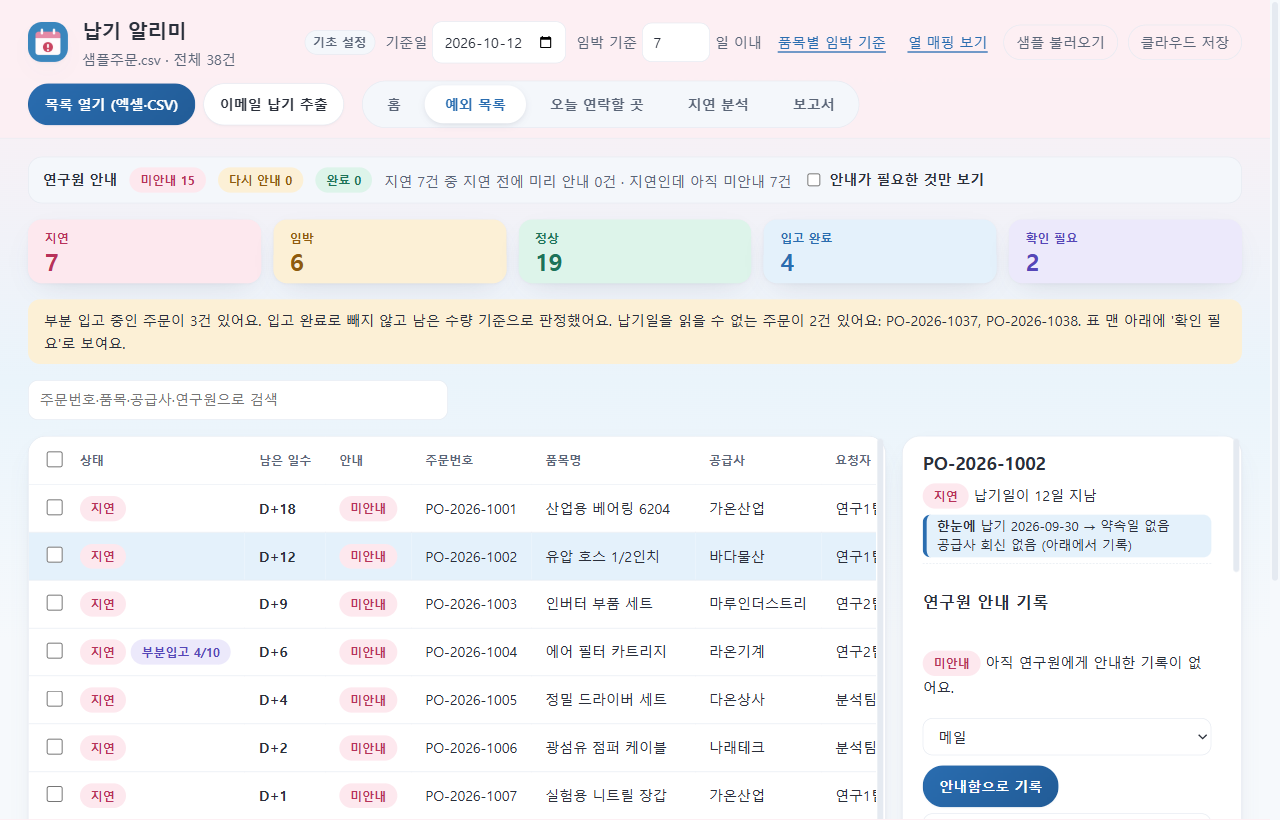
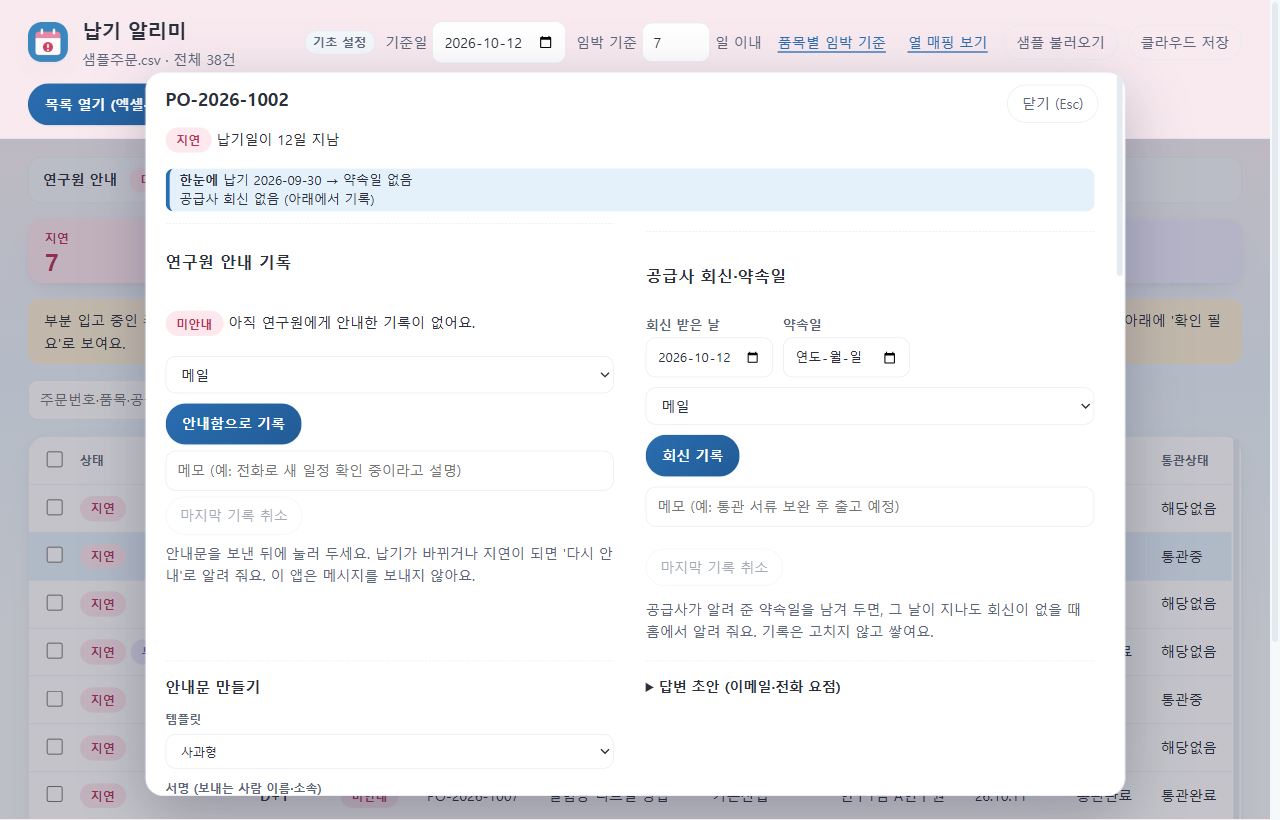
docs: 소개 페이지에 바뀐 점과 개발 방식을 보강
상세 넓은 창 캡처로 교체, 연구원 요약·메일 회신 제안 캡처 추가, 버전별 변경점 표,
하네스(AI와 일하는 방식) 섹션 추가, 시험 수치를 최신(381/19/66)으로 고친다.

diff --git a/site/index.html b/site/index.html
@@ -108,11 +108,29 @@ code { background: var(--accent-soft); padding: 1px 6px; border-radius: 6px; fon
     <p class="sub">모두 가상 샘플 데이터입니다.</p>
     <figure><img src="img/00-home.png" alt="홈 화면: 안내할 것, 회신 늦음, 오늘 연락할 곳 세 묶음" loading="lazy"><figcaption><b>홈</b> — 파일을 열면 가장 먼저 보이는 "오늘 할 일"입니다. 항목을 누르면 그 주문으로 갑니다.</figcaption></figure>
     <figure><img src="img/01-list.png" alt="예외 목록 화면: 위쪽에 목록 열기와 탭, 요약 카드와 주문 표" loading="lazy"><figcaption><b>예외 목록</b> — 지연 7 · 임박 6 · 확인 필요 2처럼 상태별로 요약하고, 안내 현황 막대로 아직 안내하지 않은 주문을 보여 줍니다.</figcaption></figure>
-    <figure><img src="img/02-detail.png" alt="주문 상세: 연구원 안내 기록과 안내함으로 기록 단추" loading="lazy"><figcaption><b>주문 상세</b> — 가장 자주 누르는 "안내함으로 기록" 단추가 스크롤 없이 보이도록 영역 순서를 바꿨습니다.</figcaption></figure>
-    <figure><img src="img/06-reply.png" alt="주문 상세 위쪽 한눈에: 납기에서 약속일로, 회신 늦음 3일째" loading="lazy"><figcaption><b>공급사 회신·약속일</b> — 약속일이 지난 주문에 "회신 늦음 3일째"가 붙습니다. 그날 공급사에 연락했으면 조용히 둡니다.</figcaption></figure>
+    <figure><img src="img/02-detail.png" alt="주문 상세 창: 연구원 안내 기록과 공급사 회신·약속일이 나란히 있는 넓은 창" loading="lazy"><figcaption><b>주문 상세</b> — 주문을 누르면 가운데 넓은 창이 열립니다. 예전에는 오른쪽 340px 좁은 칸에 세로로 길게 들어 있어 입력이 불편했습니다. 지금은 안내 기록과 공급사 회신이 나란히 놓이고, 닫기 단추나 Esc로 닫으면 보던 줄로 돌아옵니다. 좁은 창(900x600)에서도 스크롤 없이 "안내함으로 기록"이 보입니다.</figcaption></figure>
+    <figure><img src="img/06-reply.png" alt="주문 상세 위쪽 한눈에: 납기에서 약속일로, 회신 늦음 3일째" loading="lazy"><figcaption><b>공급사 회신·약속일</b> — 약속일이 지난 주문에 "회신 늦음 3일째"가 붙습니다. 그날 공급사에 연락했으면 조용히 둡니다. 회신은 지우지 않고 쌓으며, 잘못 넣으면 마지막 기록만 취소합니다.</figcaption></figure>
+    <figure><img src="img/07-ask.png" alt="연구원으로 거르면 위에 열린 주문 3건(지연 2, 임박 0, 확인 필요 1), 안내할 것 3건 요약이 보이는 화면" loading="lazy"><figcaption><b>연구원 문의 요약</b> — 연구원이 "내 주문 어떻게 됐어요?"라고 물으면, 그 연구원으로 거르는 즉시 열린 주문과 안내할 것을 한 줄로 답할 수 있습니다.</figcaption></figure>
+    <figure><img src="img/08-mail-suggest.png" alt="이메일 납기 추출 패널의 공급사 회신으로 기록 단추" loading="lazy"><figcaption><b>메일에서 회신 기록 제안</b> — 메일에서 근거 문장이 확인된 주문에만 "공급사 회신으로 기록"을 제안합니다. 날짜가 애매하면 약속일을 비워 두고, 사람이 누를 때만 기록합니다(자동 기록 없음).</figcaption></figure>
     <figure><img src="img/03-contact.png" alt="오늘 연락할 곳 화면" loading="lazy"><figcaption><b>오늘 연락할 곳</b> — 공급사별 연락 이력과 다음 행동을 정리합니다.</figcaption></figure>
     <figure><img src="img/04-analysis.png" alt="지연 분석 화면" loading="lazy"><figcaption><b>지연 분석</b> — 지연 원인(통관·서류, 생산 지연 등)의 비중을 봅니다.</figcaption></figure>
     <figure><img src="img/05-cloud.png" alt="클라우드 저장 패널: 상단에 모두 올렸어요 상태, 단계별 접이식" loading="lazy"><figcaption><b>클라우드 저장</b> — 기본은 이 컴퓨터에만 저장하고, 켜면 기록을 Supabase에 사본으로 올립니다. 현재 상태와 지금 할 일을 맨 위에 보여 주고 끝낸 단계는 접습니다.</figcaption></figure>
+  </div>
+</section>
+
+<section>
+  <div class="wrap">
+    <h2>버전별 변경점</h2>
+    <p class="sub">전체 이력은 <a href="https://github.com/2rodmlquf-bit/nabgi-alimi/blob/main/CHANGELOG.md">CHANGELOG</a>에 있습니다.</p>
+    <table>
+      <thead><tr><th>버전</th><th>바뀐 것</th></tr></thead>
+      <tbody>
+        <tr><td>v0.7.1</td><td><b>주문 상세를 가운데 넓은 창으로.</b> 오른쪽 좁은 칸의 입력 불편을 없앴고, 닫기·Esc, 좁은 창 대응을 넣었습니다.</td></tr>
+        <tr><td>v0.7.0</td><td><b>공급사 회신 추적.</b> 회신·약속일 기록, "회신 늦음" 계산, 답변 초안, 홈 탭, 연구원 문의 요약, 메일에서 회신 기록 제안, 저장 형식 v3(회신 목록 추가, 이전 파일은 자동 변환·백업).</td></tr>
+        <tr><td>v0.6.0</td><td><b>클라우드 저장(선택).</b> 올리기·복원·로그인, 메뉴를 업무 순서로 재배치, JSON 내보내기, 같은 주문번호 경고.</td></tr>
+        <tr><td>v0.5.0</td><td>안내 추적 보완, 오류 경로·규모 점검, 조건부 출시.</td></tr>
+      </tbody>
+    </table>
   </div>
 </section>
 
@@ -137,6 +155,21 @@ code { background: var(--accent-soft); padding: 1px 6px; border-radius: 6px; fon
 
 <section>
   <div class="wrap">
+    <h2>AI와 일하는 방식 (하네스)</h2>
+    <p class="sub">코딩 AI에게 "알아서 해 줘"라고 하지 않고, 일하는 순서와 규칙을 파일로 정해 두고 시켰습니다. 문서가 먼저, 코드는 그다음입니다.</p>
+    <div class="grid">
+      <div class="card"><h3>문서 먼저</h3><p>문제 정의 → 화면 구조(IA) → 사용자 여정 → PRD → ERD → spec·plan → Intent 순서로 한 문서씩 승인한 뒤 개발합니다. 끝나면 문서를 갱신합니다.</p></div>
+      <div class="card"><h3>인터뷰로 결정</h3><p>애매한 것은 AI가 추측하지 않고 한 번에 하나씩 물어서 정합니다. 용어는 용어집에, 되돌리기 어려운 결정은 ADR(결정 기록) 8건에 남겼습니다.</p></div>
+      <div class="card"><h3>코드 규칙</h3><p>파일 500줄·함수 40줄 상한, 안쪽 업무 규칙이 바깥 화면·DB를 가져다 쓰지 않는 방향 규칙, 판정·계산은 단위 시험 필수.</p></div>
+      <div class="card"><h3>자율성의 선</h3><p>파일 수정·시험·로컬 커밋은 알아서, push·배포·삭제·서비스 쓰기·결제는 반드시 멈추고 묻게 했습니다. 무료 플랜만, 가상 데이터만 씁니다.</p></div>
+      <div class="card"><h3>QA는 둘로 나눔</h3><p>AI가 직접 실행한 QA(Pass/Fail/No Run과 증거)와, 사람이 눈으로 봐야 하는 QA(글이 읽기 편한지, 실제 설치 등)를 시트에 따로 등록합니다. 증거 없는 Pass는 쓰지 않습니다.</p></div>
+      <div class="card"><h3>찾은 문제도 기록</h3><p>시험이 통과해도 화면을 열어 확인했고, 그렇게 찾은 문제(예: 2열 배치가 안내 문구를 쪼개던 것)는 고친 뒤 시험에 반영했습니다.</p></div>
+    </div>
+  </div>
+</section>
+
+<section>
+  <div class="wrap">
     <h2>클라우드 저장은 이렇게 설계했습니다</h2>
     <div class="grid">
       <div class="card"><h3>이 컴퓨터가 기준</h3><p>기록은 항상 로컬에 먼저 저장합니다. 인터넷이 끊겨도 기록이 막히지 않고, 돌아오면 이어서 올립니다.</p></div>
@@ -151,9 +184,9 @@ code { background: var(--accent-soft); padding: 1px 6px; border-radius: 6px; fon
   <div class="wrap">
     <h2>얼마나 확인했나요</h2>
     <div class="kpi">
-      <div><b>346</b><span>단위 시험</span></div>
-      <div><b>16</b><span>화면 시나리오(E2E)</span></div>
-      <div><b>47</b><span>DB 규칙 시험</span></div>
+      <div><b>381</b><span>단위 시험</span></div>
+      <div><b>19</b><span>화면 시나리오(E2E)</span></div>
+      <div><b>66</b><span>DB 규칙 시험</span></div>
       <div><b>0</b><span>보안 점검 문제 (Supabase)</span></div>
     </div>
     <p class="sub" style="margin-top:12px">시험이 통과해도 믿지 않고 실제 화면을 열어 확인했고, 그렇게 찾은 문제들은 <a href="https://github.com/2rodmlquf-bit/nabgi-alimi/blob/main/docs/BACKLOG.md">BACKLOG</a>에 기록했습니다.</p>

diff --git a/tools/site-shots.js b/tools/site-shots.js
@@ -28,6 +28,17 @@ const OUT = path.join(ROOT, "site", "img");
     await app.screenshot(OUT + "/06-reply.png");
     await app.click("#tabContact"); await app.sleep(500); await app.screenshot(OUT + "/03-contact.png");
     await app.click("#tabAna"); await app.sleep(500); await app.screenshot(OUT + "/04-analysis.png");
+    await app.press("Escape"); await app.click("#tabList"); await app.sleep(300);
+    await app.eval("document.querySelector('#tbody tr').children[7].click()"); await app.sleep(400);
+    await app.screenshot(OUT + "/07-ask.png");
+    await app.clickText("#filterChip button", "필터 해제"); await app.sleep(250);
+    await app.click("#emailBtn"); await app.sleep(300);
+    await app.click("#srcFolder"); await app.click("#folderSample"); await app.sleep(1500);
+    await app.click("#presetAll"); await app.click("#folderRun");
+    await app.waitFor(async () => (await app.count("#emailResult .replysuggest button")) > 0, 8000); await app.sleep(400);
+    await app.eval("document.querySelector('#emailResult .replysuggest').scrollIntoView({ block: 'center' })"); await app.sleep(300);
+    await app.screenshot(OUT + "/08-mail-suggest.png");
+    await app.eval("document.getElementById('emailClose').click()"); await app.sleep(300);
     await app.click("#cloudBtn"); await app.sleep(300);
     await app.setValue("#cloudUrl", "http://127.0.0.1:" + server.address().port, "input"); await app.setValue("#cloudKey", "sb_publishable_" + "x".repeat(30), "input"); await app.click("#cloudConfigSave"); await app.sleep(500);
     await app.setValue("#cloudEmail", "demo@example.test", "input"); await app.setValue("#cloudPassword", "pw", "input"); await app.click("#cloudLogin"); await app.sleep(800);
